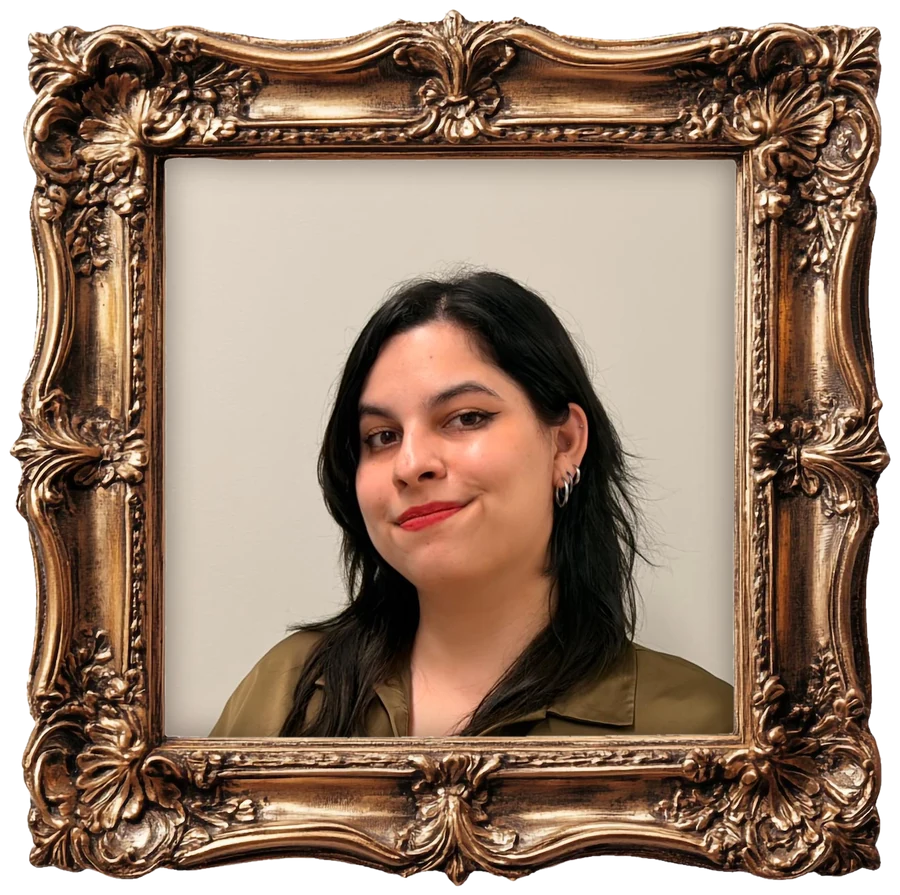
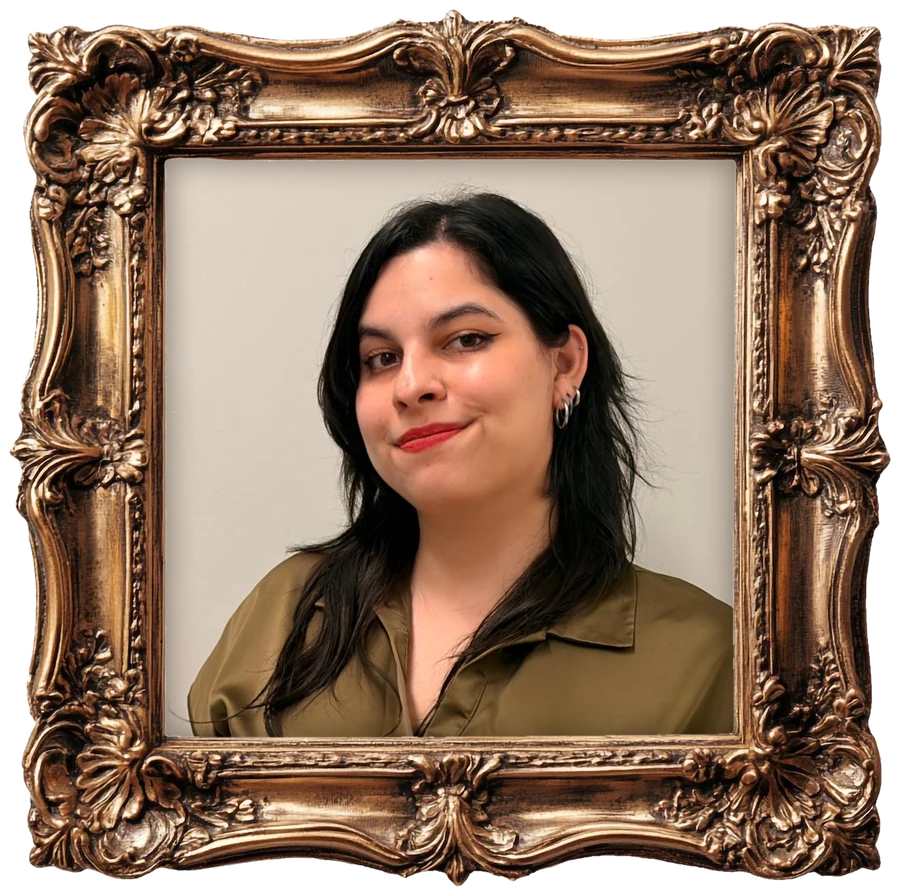
Reencuadra la foto del retrato dentro del marco
Claude-Session: https://claude.ai/code/session_017dZtDhfX86zn6CdeNzTMTH

Changed region(s): [[0.1867, 0.2112, 0.84, 0.8447]]

diff --git a/sobre-mi.html b/sobre-mi.html
@@ -3,4 +3,4 @@
 <title>Sobre mí · Paz Fretes</title><meta name="description" content="Quién soy, cómo trabajo y currículum de Paz Fretes, diseñadora UX/UI.">
 <link rel="preconnect" href="https://fonts.googleapis.com"><link rel="preconnect" href="https://fonts.gstatic.com" crossorigin>
 <link href="https://fonts.googleapis.com/css2?family=Almendra:wght@400;700&family=Lora:ital,wght@0,400;0,600;1,400&display=swap" rel="stylesheet">
-<link rel="stylesheet" href="style.css?v=15"></head><body class="app"><button type="button" class="burger" aria-label="Abrir menú" aria-expanded="false">☰</button><aside class="side" id="side"><a class="mono" href="index.html" aria-label="Inicio"><span><img src="img/paz-avatar.webp" alt="Paz Fretes"></span><b>Paz Fretes</b><small>UX/UI · 2026</small></a><nav aria-label="Principal"><a class="" href="index.html">Inicio</a><a class="" href="index.html#proyectos">Proyectos</a><div class="subs"><a class="sub" href="proyectos/clt.html">Formulario de Satisfacción</a><a class="sub" href="proyectos/astra.html">ASTRA</a><a class="sub" href="proyectos/klyn.html">Klyn</a><a class="sub" href="proyectos/crm.html">Workplace CRM</a><a class="sub" href="proyectos/lexsign.html">LEXSIGN</a><a class="sub" href="proyectos/argos.html">ARGOS</a></div><a class=" on" href="sobre-mi.html">Sobre mí</a><a class="" href="contacto.html">Contacto</a></nav><a class="mail" href="mailto:mpfretes@gmail.com">mpfretes@gmail.com</a></aside><div class="main"><section class="banner"><i class="co c-tr"></i><i class="co c-br"></i><i class="co c-bl"></i><i class="co c-tl"></i><div class="wrap"><p class="kicker">Sobre mí</p><h1>Diseño con intención</h1><p class="lead">Quién soy, cómo trabajo y mi trayectoria profesional.</p></div></section><section id="sobre"><div class="wrap"><p class="num">Sobre mí</p><h2>Mi forma de trabajar</h2><div class="about-g"><figure class="portrait"><img src="img/cuadro.webp" alt="Retrato de Maria Paz Fretes Perrens en un marco dorado"></figure><div><p>Soy diseñadora UX/UI y trabajo en la intersección entre investigación, estética y producto. Creo que una interfaz elegante también tiene que ser clara, accesible y consistente.</p><p>Combino pensamiento sistémico con un fuerte cuidado por el detalle tipográfico y visual.</p><ul class="plain"><li><h3>Relevamiento y Análisis funcional</h3>Encuestas, Entrevistas y Flujos.</li><li><h3>Diseño de interfaces</h3>Web, mobile y responsive con jerarquía clara y composición editorial.</li><li><h3>Design Systems</h3>Tokens, componentes y documentación listos para producto.</li><li><h3>Prototipado y pruebas</h3>Flujos interactivos y validación con usuarios reales.</li></ul></div></div></div></section><section id="cv" class="cv"><div class="wrap"><p class="num">Currículum</p><h2>Maria Paz Fretes Perrens</h2><p class="cv-lead">Diseñadora gráfica con casi 10 años de experiencia en branding, diseño para redes sociales y gestión de redes sociales, diseño BTL, entre otras áreas. Actualmente, me especializo en UX/UI para videojuegos, plataformas web y móviles, y sistemas internos.</p><p class="cv-meta"><span>Asunción, Paraguay</span><a href="mailto:mpfretes@gmail.com">mpfretes@gmail.com</a></p><nav class="cv-nav" aria-label="Secciones del currículum"><a href="#cv-exp">Experiencia</a><a href="#cv-edu">Educación</a><a href="#cv-comp">Competencias</a><a href="#cv-herr">Herramientas</a><a href="#cv-charlas">Charlas</a></nav><div id="cv-exp" class="cv-blk"><div class="cv-h"><h3>Experiencia laboral</h3><div class="tog"><button type="button" data-t="open">Expandir todo</button><button type="button" data-t="close">Contraer todo</button></div></div><div class="jobs"><details class="job"><summary><span class="jt"><b>Analista Preventa</b><em>CLT SA · Asunción, Paraguay</em></span><span class="jd">Agosto 2026 – Actualidad</span></summary><ul><li>Realizo análisis funcional de los requerimientos de proyectos y las necesidades del negocio.</li><li>Desarrollo flujos de cotización y estimación de proyectos.</li><li>Elaboro y estructuro backlogs técnicos.</li><li>Desgloso requerimientos en tareas técnicas estimables.</li><li>Diseño prototipos de alta fidelidad como parte de propuestas comerciales.</li><li>Defino el alcance de los proyectos y las soluciones digitales propuestas.</li><li>Elaboro estimaciones de proyectos y cotizaciones finales.</li><li>Desarrollo propuestas de soluciones para clientes.</li><li>Colaboro con equipos de diseño, negocio y desarrollo durante el proceso de preventa.</li><li>Utilizo herramientas basadas en inteligencia artificial para optimizar el análisis de requerimientos, la creación de prototipos, las estimaciones y el desarrollo de propuestas.</li></ul></details><details class="job"><summary><span class="jt"><b>Diseñadora UX/UI</b><em>CLT SA · Asunción, Paraguay</em></span><span class="jd">Diciembre 2024 – Julio 2026</span></summary><ul><li>Colaboré con equipos funcionales en la definición de requerimientos, casos de uso y diagramas de flujo.</li><li>Diseñé recursos gráficos de interfaz, pantallas, mockups y guías de estilo.</li><li>Aseguré la aplicación de principios de diseño centrados en el usuario.</li><li>Trabajé en colaboración con equipos de desarrollo y diferentes tecnologías.</li><li>Utilicé bibliotecas de componentes y modelos de inteligencia artificial para optimizar y potenciar el proceso de diseño.</li></ul></details><details class="job"><summary><span class="jt"><b>Brand graphic designer</b><em>CONMEBOL · Asunción, Paraguay</em></span><span class="jd">Abril 2024 – Julio 2024</span></summary><ul><li>Diseñé interfaces de usuario (UI) para plataformas web y aplicaciones móviles.</li><li>Diseñé materiales de marketing y comunicación visual para torneos y eventos deportivos.</li><li>Diseñé señalética y materiales de orientación para eventos.</li><li>Desarrollé piezas gráficas y señalización para estadios durante eventos deportivos.</li><li>Creé recursos gráficos digitales para la comunicación y promoción de torneos.</li><li>Diseñé materiales impresos, incluyendo invitaciones, folletos y otras piezas de comunicación.</li><li>Adapté recursos visuales a diferentes formatos, espacios y requerimientos de producción.</li><li>Apliqué los lineamientos de identidad visual de CONMEBOL en materiales digitales, impresos y físicos.</li><li>Preparé y adapté artes finales según las distintas necesidades de comunicación y producción.</li></ul></details><details class="job"><summary><span class="jt"><b>Diseñadora UX/UI</b><em>Posibillian Tech · Asunción, Paraguay</em></span><span class="jd">Octubre 2021 – Noviembre 2023</span></summary><ul><li>Desarrollo de identidad visual y branding para un proyecto de videojuego móvil.</li><li>Aplicación de principios de diseño centrados en el usuario.</li><li>Definición y desarrollo integral del sistema de diseño del videojuego.</li><li>Diseño de recursos gráficos de interfaz y pantallas.</li><li>Elaboración de prototipos y mockups de baja y alta fidelidad.</li><li>Investigación UX para analizar y comparar competidores, así como identificar funcionalidades exitosas.</li><li>Definición y aplicación de principios de diseño centrados en la experiencia del jugador.</li><li>Colaboración con los equipos de arte y desarrollo.</li><li>Incorporación y análisis del feedback de los testers de las versiones beta para mejorar las funcionalidades y la experiencia de juego.</li></ul></details><details class="job"><summary><span class="jt"><b>Diseñadora Gráfica &amp; Community Manager</b><em>CBA SA · Asunción, Paraguay</em></span><span class="jd">Agosto 2018 – Setiembre 2021</span></summary><ul><li>Diseño gráfico y digital para marketing y comunicación corporativa.</li><li>Desarrollo y adaptación de identidades visuales.</li><li>Creación de materiales de comunicación digitales e impresos.</li><li>Fotografía de productos para contenido comercial y de marketing.</li><li>Edición y retoque fotográfico.</li><li>Edición de videos para canales digitales y redes sociales.</li><li>Gestión de comunidades en plataformas de redes sociales.</li><li>Planificación y organización de calendarios de contenido para redes sociales.</li><li>Creación y adaptación de contenido para redes sociales.</li><li>Administración de cuentas de Facebook e Instagram mediante Meta Business.</li><li>Publicación y gestión de contenidos en redes sociales.</li><li>Adaptación de recursos gráficos a los formatos y especificaciones de cada plataforma.</li><li>Desarrollo de piezas creativas para campañas digitales.</li></ul></details><details class="job"><summary><span class="jt"><b>Diseñadora Gráfica</b><em>Fusión Creativa SA · Asunción, Paraguay</em></span><span class="jd">Diciembre 2017 – Agosto 2018</span></summary><ul><li>Diseño gráfico para medios digitales e impresos.</li><li>Desarrollo de materiales publicitarios y de comunicación.</li><li>Creación y adaptación de recursos de identidad visual.</li><li>Diseño de materiales promocionales para diferentes campañas y canales de comunicación.</li><li>Preparación y adaptación de artes finales según los distintos formatos y requerimientos de producción.</li></ul></details><details class="job"><summary><span class="jt"><b>Diseñadora Gráfica</b><em>Vörtice Agencia Creativa · Asunción, Paraguay</em></span><span class="jd">2017</span></summary><ul><li>Diseño gráfico y comunicación visual para marcas y campañas.</li><li>Desarrollo de materiales de comunicación digitales e impresos.</li><li>Creación y adaptación de identidades visuales a diferentes formatos y medios.</li><li>Diseño de piezas promocionales y de comunicación.</li></ul></details></div></div><div id="cv-edu" class="cv-blk cv-2"><div><h3>Educación</h3><p class="deg"><b>Licenciatura en Diseño Gráfico</b><br>Universidad Columbia del Paraguay<br>Agosto 2022 · Asunción, Paraguay</p></div><div><h3>Idiomas</h3><ul class="plain2"><li><b>Español</b> · Nativo</li><li><b>Inglés</b> · Avanzado</li><li><b>Japonés</b> · Básico</li></ul></div></div><div id="cv-comp" class="cv-blk"><h3>Competencias profesionales</h3><ul class="cols3"><li>UX/UI y diseño de productos digitales</li><li>Investigación de usuarios y análisis de la competencia</li><li>Flujos de usuario y arquitectura de información</li><li>Wireframing y prototipado</li><li>Sistemas de diseño y diseño de interfaces (UI)</li><li>Diseño para plataformas web y móviles</li><li>Diseño de software empresarial y sistemas internos</li><li>Análisis funcional y relevamiento de requerimientos</li><li>Diseño de soluciones y definición del alcance de proyectos</li><li>Preventa y estimación de proyectos</li><li>Definición y estructuración de backlogs técnicos</li><li>Documentación de diseño y control de calidad (QA)</li><li>Branding y diseño visual</li><li>Motion graphics y contenido digital</li><li>Diseño y prototipado asistidos por inteligencia artificial</li><li>Colaboración interdisciplinaria y comunicación con clientes</li></ul></div><div id="cv-herr" class="cv-blk cv-2"><div><h3>Herramientas y tecnologías</h3><ul class="chipl"><li>Prompting</li><li>Figma (Figma Make, Claude Design y herramientas de IA)</li><li>Prototipado</li><li>Wireframing</li><li>Adobe Illustrator</li><li>Adobe Photoshop</li><li>Adobe XD</li><li>Adobe InDesign</li><li>Unity</li><li>Confluence</li><li>Adobe Creative Cloud</li><li>Meta Business Suite</li></ul></div><div><h3>Habilidades blandas</h3><ul class="chipl"><li>Pensamiento analítico</li><li>Resolución de problemas</li><li>Pensamiento creativo</li><li>Adaptabilidad</li><li>Trabajo interdisciplinario</li><li>Colaboración</li><li>Comunicación efectiva</li><li>Atención al detalle</li><li>Organización y planificación</li><li>Iniciativa</li><li>Aprendizaje continuo</li></ul></div></div><div id="cv-charlas" class="cv-blk"><h3>Charlas y conferencias</h3><p class="talk"><b>Charla:</b> Mi EXP en el diseño UXUI para videojuegos</p><p>Introducción al UX/UI en videojuegos: principios, roles y oportunidades dentro del proceso de desarrollo.</p><table class="tbl"><thead><tr><th>Año</th><th>Evento / Institución</th><th>Lugar</th></tr></thead><tbody><tr><td>2023</td><td>Ñahendu</td><td>Universidad Columbia del Paraguay</td></tr><tr><td>2023</td><td>Game Dev Py</td><td>Universidad Autónoma de Asunción</td></tr><tr><td>2024</td><td>Encarprograma</td><td>Hotel Savoy, Encarnación</td></tr><tr><td>2024</td><td>EXPY LAB</td><td>Alianza Francesa, Asunción</td></tr></tbody></table></div></div></section><footer><div class="wrap"><p>© 2026 · Paz Fretes</p></div></footer></div><script src="main.js?v=15"></script></body></html>
+<link rel="stylesheet" href="style.css?v=16"></head><body class="app"><button type="button" class="burger" aria-label="Abrir menú" aria-expanded="false">☰</button><aside class="side" id="side"><a class="mono" href="index.html" aria-label="Inicio"><span><img src="img/paz-avatar.webp" alt="Paz Fretes"></span><b>Paz Fretes</b><small>UX/UI · 2026</small></a><nav aria-label="Principal"><a class="" href="index.html">Inicio</a><a class="" href="index.html#proyectos">Proyectos</a><div class="subs"><a class="sub" href="proyectos/clt.html">Formulario de Satisfacción</a><a class="sub" href="proyectos/astra.html">ASTRA</a><a class="sub" href="proyectos/klyn.html">Klyn</a><a class="sub" href="proyectos/crm.html">Workplace CRM</a><a class="sub" href="proyectos/lexsign.html">LEXSIGN</a><a class="sub" href="proyectos/argos.html">ARGOS</a></div><a class=" on" href="sobre-mi.html">Sobre mí</a><a class="" href="contacto.html">Contacto</a></nav><a class="mail" href="mailto:mpfretes@gmail.com">mpfretes@gmail.com</a></aside><div class="main"><section class="banner"><i class="co c-tr"></i><i class="co c-br"></i><i class="co c-bl"></i><i class="co c-tl"></i><div class="wrap"><p class="kicker">Sobre mí</p><h1>Diseño con intención</h1><p class="lead">Quién soy, cómo trabajo y mi trayectoria profesional.</p></div></section><section id="sobre"><div class="wrap"><p class="num">Sobre mí</p><h2>Mi forma de trabajar</h2><div class="about-g"><figure class="portrait"><img src="img/cuadro.webp?v=2" alt="Retrato de Maria Paz Fretes Perrens en un marco dorado"></figure><div><p>Soy diseñadora UX/UI y trabajo en la intersección entre investigación, estética y producto. Creo que una interfaz elegante también tiene que ser clara, accesible y consistente.</p><p>Combino pensamiento sistémico con un fuerte cuidado por el detalle tipográfico y visual.</p><ul class="plain"><li><h3>Relevamiento y Análisis funcional</h3>Encuestas, Entrevistas y Flujos.</li><li><h3>Diseño de interfaces</h3>Web, mobile y responsive con jerarquía clara y composición editorial.</li><li><h3>Design Systems</h3>Tokens, componentes y documentación listos para producto.</li><li><h3>Prototipado y pruebas</h3>Flujos interactivos y validación con usuarios reales.</li></ul></div></div></div></section><section id="cv" class="cv"><div class="wrap"><p class="num">Currículum</p><h2>Maria Paz Fretes Perrens</h2><p class="cv-lead">Diseñadora gráfica con casi 10 años de experiencia en branding, diseño para redes sociales y gestión de redes sociales, diseño BTL, entre otras áreas. Actualmente, me especializo en UX/UI para videojuegos, plataformas web y móviles, y sistemas internos.</p><p class="cv-meta"><span>Asunción, Paraguay</span><a href="mailto:mpfretes@gmail.com">mpfretes@gmail.com</a></p><nav class="cv-nav" aria-label="Secciones del currículum"><a href="#cv-exp">Experiencia</a><a href="#cv-edu">Educación</a><a href="#cv-comp">Competencias</a><a href="#cv-herr">Herramientas</a><a href="#cv-charlas">Charlas</a></nav><div id="cv-exp" class="cv-blk"><div class="cv-h"><h3>Experiencia laboral</h3><div class="tog"><button type="button" data-t="open">Expandir todo</button><button type="button" data-t="close">Contraer todo</button></div></div><div class="jobs"><details class="job"><summary><span class="jt"><b>Analista Preventa</b><em>CLT SA · Asunción, Paraguay</em></span><span class="jd">Agosto 2026 – Actualidad</span></summary><ul><li>Realizo análisis funcional de los requerimientos de proyectos y las necesidades del negocio.</li><li>Desarrollo flujos de cotización y estimación de proyectos.</li><li>Elaboro y estructuro backlogs técnicos.</li><li>Desgloso requerimientos en tareas técnicas estimables.</li><li>Diseño prototipos de alta fidelidad como parte de propuestas comerciales.</li><li>Defino el alcance de los proyectos y las soluciones digitales propuestas.</li><li>Elaboro estimaciones de proyectos y cotizaciones finales.</li><li>Desarrollo propuestas de soluciones para clientes.</li><li>Colaboro con equipos de diseño, negocio y desarrollo durante el proceso de preventa.</li><li>Utilizo herramientas basadas en inteligencia artificial para optimizar el análisis de requerimientos, la creación de prototipos, las estimaciones y el desarrollo de propuestas.</li></ul></details><details class="job"><summary><span class="jt"><b>Diseñadora UX/UI</b><em>CLT SA · Asunción, Paraguay</em></span><span class="jd">Diciembre 2024 – Julio 2026</span></summary><ul><li>Colaboré con equipos funcionales en la definición de requerimientos, casos de uso y diagramas de flujo.</li><li>Diseñé recursos gráficos de interfaz, pantallas, mockups y guías de estilo.</li><li>Aseguré la aplicación de principios de diseño centrados en el usuario.</li><li>Trabajé en colaboración con equipos de desarrollo y diferentes tecnologías.</li><li>Utilicé bibliotecas de componentes y modelos de inteligencia artificial para optimizar y potenciar el proceso de diseño.</li></ul></details><details class="job"><summary><span class="jt"><b>Brand graphic designer</b><em>CONMEBOL · Asunción, Paraguay</em></span><span class="jd">Abril 2024 – Julio 2024</span></summary><ul><li>Diseñé interfaces de usuario (UI) para plataformas web y aplicaciones móviles.</li><li>Diseñé materiales de marketing y comunicación visual para torneos y eventos deportivos.</li><li>Diseñé señalética y materiales de orientación para eventos.</li><li>Desarrollé piezas gráficas y señalización para estadios durante eventos deportivos.</li><li>Creé recursos gráficos digitales para la comunicación y promoción de torneos.</li><li>Diseñé materiales impresos, incluyendo invitaciones, folletos y otras piezas de comunicación.</li><li>Adapté recursos visuales a diferentes formatos, espacios y requerimientos de producción.</li><li>Apliqué los lineamientos de identidad visual de CONMEBOL en materiales digitales, impresos y físicos.</li><li>Preparé y adapté artes finales según las distintas necesidades de comunicación y producción.</li></ul></details><details class="job"><summary><span class="jt"><b>Diseñadora UX/UI</b><em>Posibillian Tech · Asunción, Paraguay</em></span><span class="jd">Octubre 2021 – Noviembre 2023</span></summary><ul><li>Desarrollo de identidad visual y branding para un proyecto de videojuego móvil.</li><li>Aplicación de principios de diseño centrados en el usuario.</li><li>Definición y desarrollo integral del sistema de diseño del videojuego.</li><li>Diseño de recursos gráficos de interfaz y pantallas.</li><li>Elaboración de prototipos y mockups de baja y alta fidelidad.</li><li>Investigación UX para analizar y comparar competidores, así como identificar funcionalidades exitosas.</li><li>Definición y aplicación de principios de diseño centrados en la experiencia del jugador.</li><li>Colaboración con los equipos de arte y desarrollo.</li><li>Incorporación y análisis del feedback de los testers de las versiones beta para mejorar las funcionalidades y la experiencia de juego.</li></ul></details><details class="job"><summary><span class="jt"><b>Diseñadora Gráfica &amp; Community Manager</b><em>CBA SA · Asunción, Paraguay</em></span><span class="jd">Agosto 2018 – Setiembre 2021</span></summary><ul><li>Diseño gráfico y digital para marketing y comunicación corporativa.</li><li>Desarrollo y adaptación de identidades visuales.</li><li>Creación de materiales de comunicación digitales e impresos.</li><li>Fotografía de productos para contenido comercial y de marketing.</li><li>Edición y retoque fotográfico.</li><li>Edición de videos para canales digitales y redes sociales.</li><li>Gestión de comunidades en plataformas de redes sociales.</li><li>Planificación y organización de calendarios de contenido para redes sociales.</li><li>Creación y adaptación de contenido para redes sociales.</li><li>Administración de cuentas de Facebook e Instagram mediante Meta Business.</li><li>Publicación y gestión de contenidos en redes sociales.</li><li>Adaptación de recursos gráficos a los formatos y especificaciones de cada plataforma.</li><li>Desarrollo de piezas creativas para campañas digitales.</li></ul></details><details class="job"><summary><span class="jt"><b>Diseñadora Gráfica</b><em>Fusión Creativa SA · Asunción, Paraguay</em></span><span class="jd">Diciembre 2017 – Agosto 2018</span></summary><ul><li>Diseño gráfico para medios digitales e impresos.</li><li>Desarrollo de materiales publicitarios y de comunicación.</li><li>Creación y adaptación de recursos de identidad visual.</li><li>Diseño de materiales promocionales para diferentes campañas y canales de comunicación.</li><li>Preparación y adaptación de artes finales según los distintos formatos y requerimientos de producción.</li></ul></details><details class="job"><summary><span class="jt"><b>Diseñadora Gráfica</b><em>Vörtice Agencia Creativa · Asunción, Paraguay</em></span><span class="jd">2017</span></summary><ul><li>Diseño gráfico y comunicación visual para marcas y campañas.</li><li>Desarrollo de materiales de comunicación digitales e impresos.</li><li>Creación y adaptación de identidades visuales a diferentes formatos y medios.</li><li>Diseño de piezas promocionales y de comunicación.</li></ul></details></div></div><div id="cv-edu" class="cv-blk cv-2"><div><h3>Educación</h3><p class="deg"><b>Licenciatura en Diseño Gráfico</b><br>Universidad Columbia del Paraguay<br>Agosto 2022 · Asunción, Paraguay</p></div><div><h3>Idiomas</h3><ul class="plain2"><li><b>Español</b> · Nativo</li><li><b>Inglés</b> · Avanzado</li><li><b>Japonés</b> · Básico</li></ul></div></div><div id="cv-comp" class="cv-blk"><h3>Competencias profesionales</h3><ul class="cols3"><li>UX/UI y diseño de productos digitales</li><li>Investigación de usuarios y análisis de la competencia</li><li>Flujos de usuario y arquitectura de información</li><li>Wireframing y prototipado</li><li>Sistemas de diseño y diseño de interfaces (UI)</li><li>Diseño para plataformas web y móviles</li><li>Diseño de software empresarial y sistemas internos</li><li>Análisis funcional y relevamiento de requerimientos</li><li>Diseño de soluciones y definición del alcance de proyectos</li><li>Preventa y estimación de proyectos</li><li>Definición y estructuración de backlogs técnicos</li><li>Documentación de diseño y control de calidad (QA)</li><li>Branding y diseño visual</li><li>Motion graphics y contenido digital</li><li>Diseño y prototipado asistidos por inteligencia artificial</li><li>Colaboración interdisciplinaria y comunicación con clientes</li></ul></div><div id="cv-herr" class="cv-blk cv-2"><div><h3>Herramientas y tecnologías</h3><ul class="chipl"><li>Prompting</li><li>Figma (Figma Make, Claude Design y herramientas de IA)</li><li>Prototipado</li><li>Wireframing</li><li>Adobe Illustrator</li><li>Adobe Photoshop</li><li>Adobe XD</li><li>Adobe InDesign</li><li>Unity</li><li>Confluence</li><li>Adobe Creative Cloud</li><li>Meta Business Suite</li></ul></div><div><h3>Habilidades blandas</h3><ul class="chipl"><li>Pensamiento analítico</li><li>Resolución de problemas</li><li>Pensamiento creativo</li><li>Adaptabilidad</li><li>Trabajo interdisciplinario</li><li>Colaboración</li><li>Comunicación efectiva</li><li>Atención al detalle</li><li>Organización y planificación</li><li>Iniciativa</li><li>Aprendizaje continuo</li></ul></div></div><div id="cv-charlas" class="cv-blk"><h3>Charlas y conferencias</h3><p class="talk"><b>Charla:</b> Mi EXP en el diseño UXUI para videojuegos</p><p>Introducción al UX/UI en videojuegos: principios, roles y oportunidades dentro del proceso de desarrollo.</p><table class="tbl"><thead><tr><th>Año</th><th>Evento / Institución</th><th>Lugar</th></tr></thead><tbody><tr><td>2023</td><td>Ñahendu</td><td>Universidad Columbia del Paraguay</td></tr><tr><td>2023</td><td>Game Dev Py</td><td>Universidad Autónoma de Asunción</td></tr><tr><td>2024</td><td>Encarprograma</td><td>Hotel Savoy, Encarnación</td></tr><tr><td>2024</td><td>EXPY LAB</td><td>Alianza Francesa, Asunción</td></tr></tbody></table></div></div></section><footer><div class="wrap"><p>© 2026 · Paz Fretes</p></div></footer></div><script src="main.js?v=16"></script></body></html>
